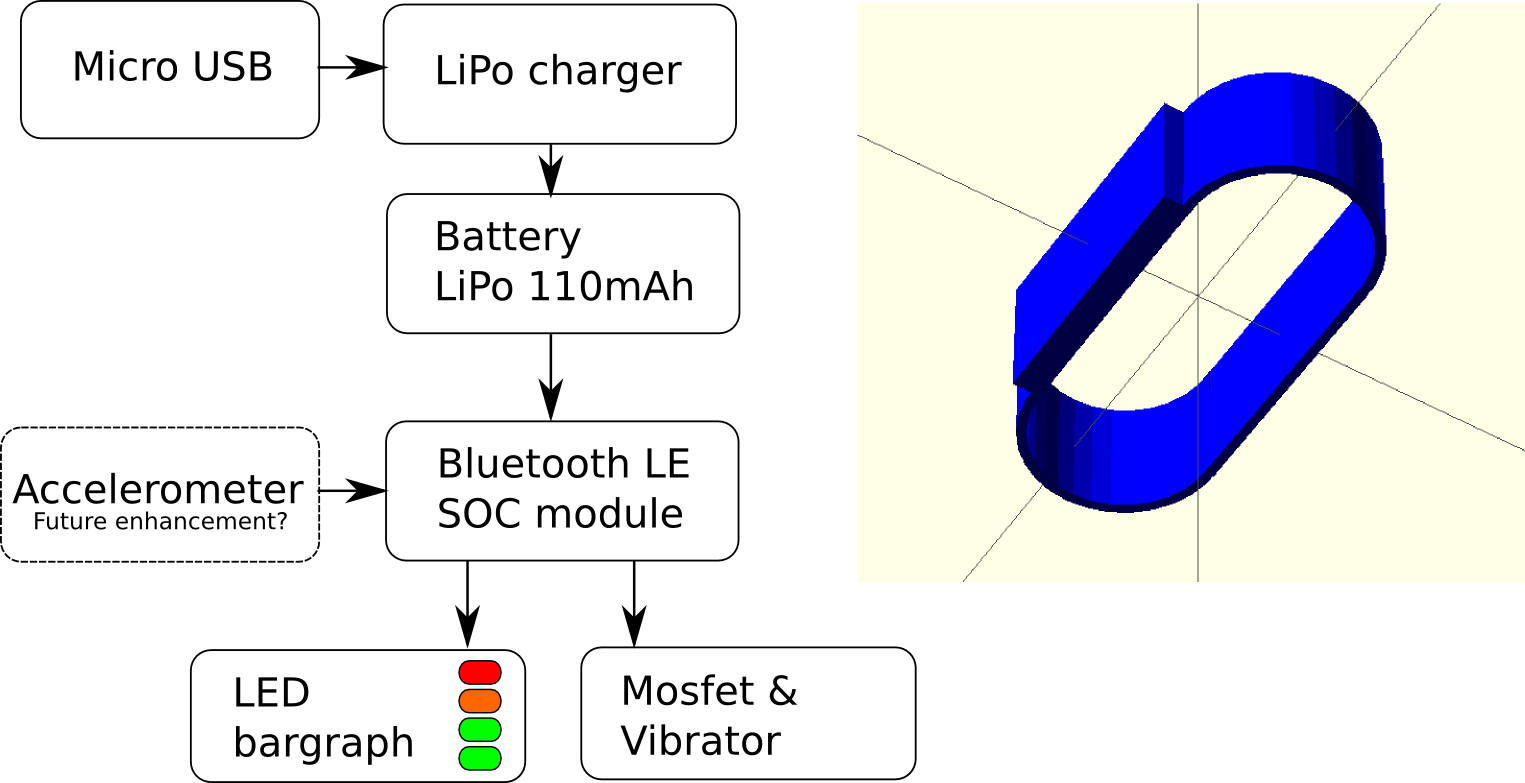
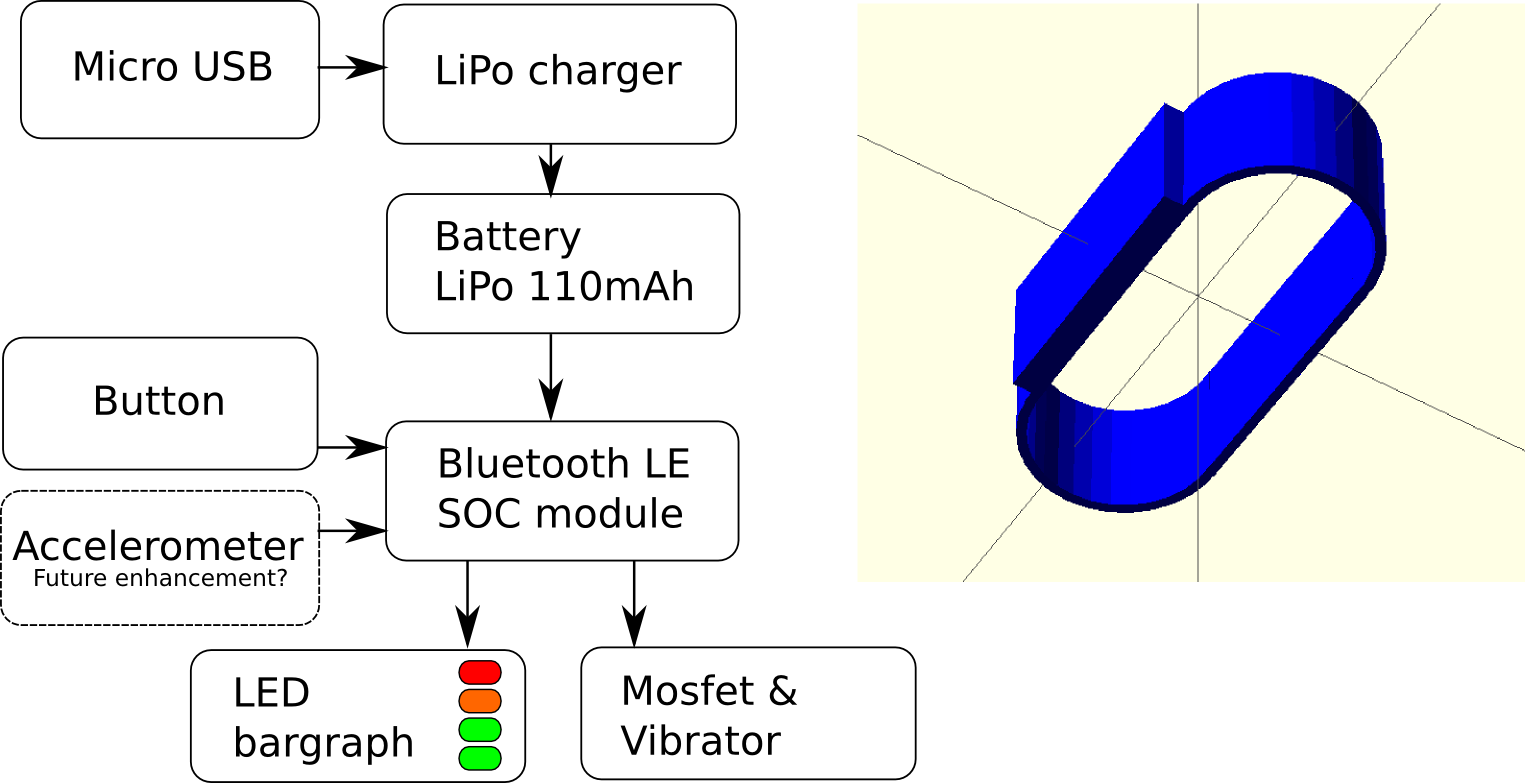
added details on button

Changed region(s): [[0.0, 0.4904, 0.2466, 0.7663], [0.0, 0.4291, 0.2157, 0.4598]]

diff --git a/README.md b/README.md
@@ -24,7 +24,13 @@ in public places.
 A wristband that tells you energy changes in your home. It connects to a base
 station like a 'current cost' or similar. When a change in energy usage occurs,
 the wristband vibrates and a small LED bargraph shows your current usage from 1
-to 4.
+to 4. 
+
+Realtime energy use can be queried by pressing the button.
+
+An accelerometer could be used to save battery life by putting the wristband to
+sleep when not worn. Alternatively, the base station could decrease
+communications during the night.
 
 ![system overview](docs/system-overview.png)
 
